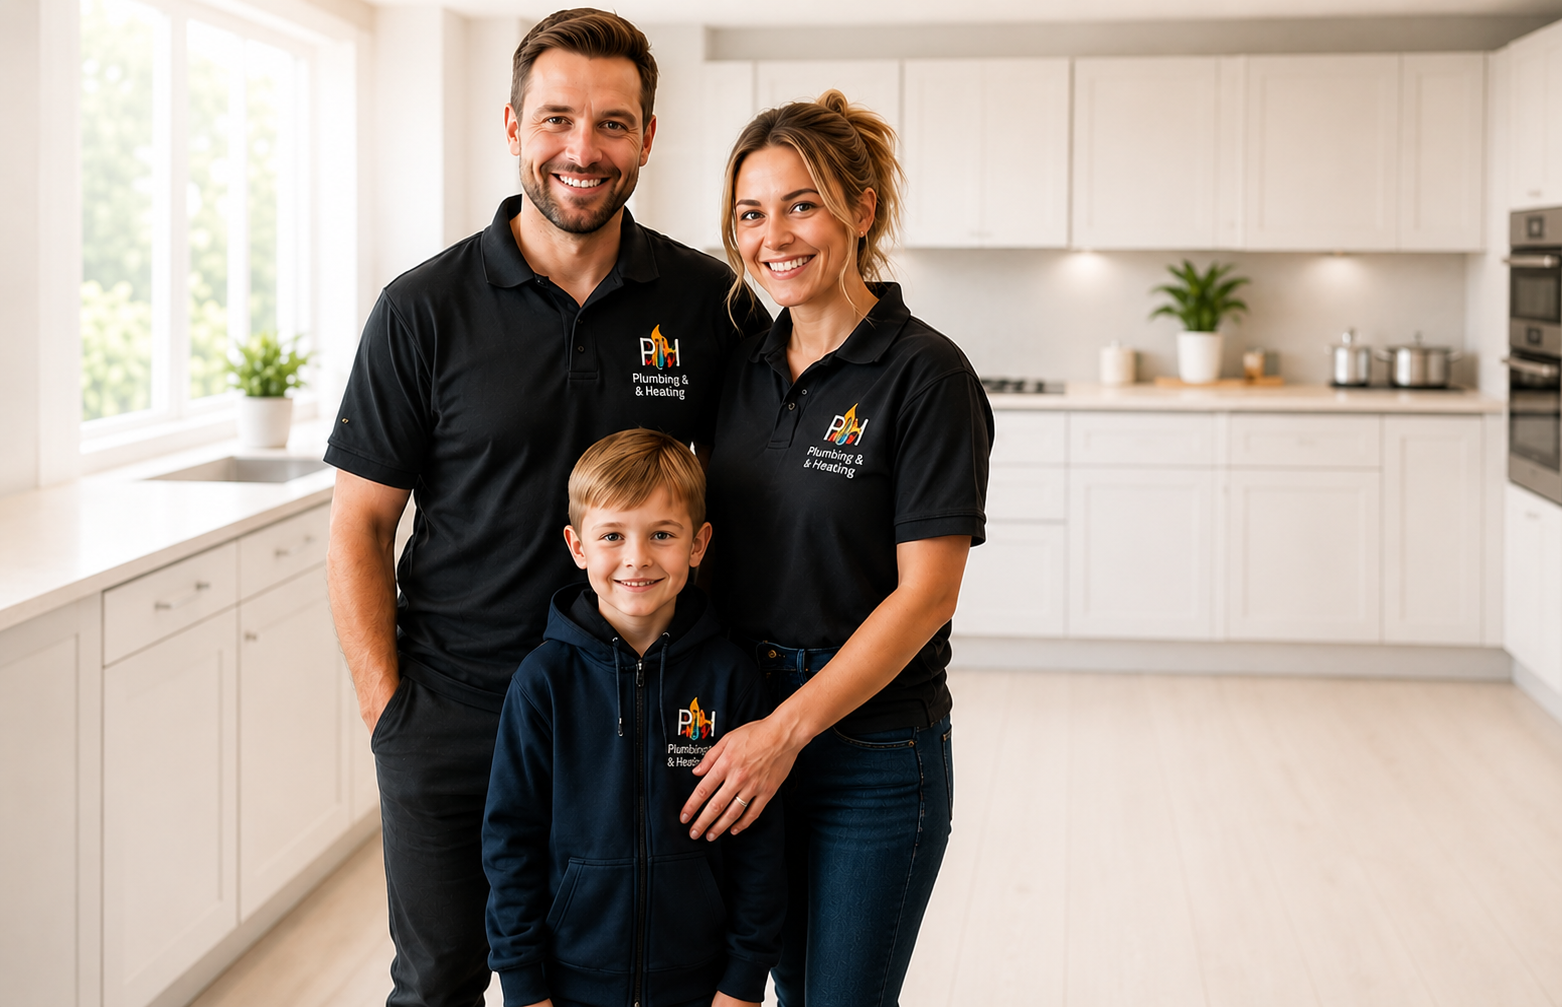
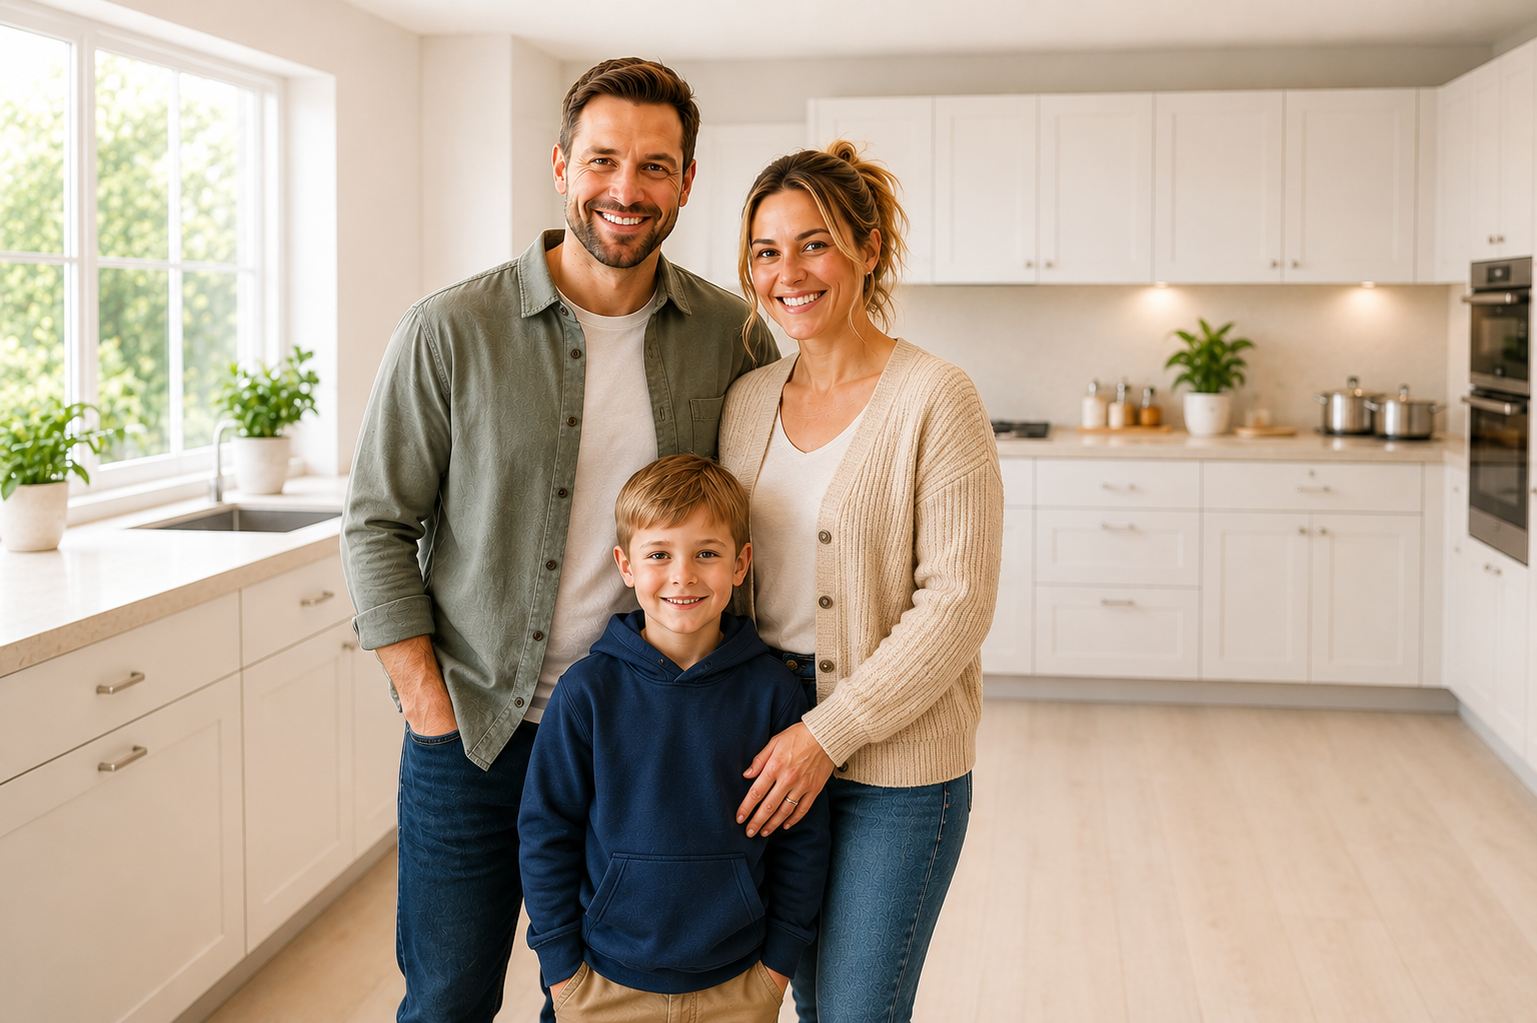
content: remove '1 hour' response time promises from hero quote form and footer contact info

diff --git a/web/app/page.tsx b/web/app/page.tsx
@@ -468,7 +468,7 @@ export default function Home() {
                     </div>
                     <h3 className="text-lg font-extrabold text-slate-800">Quote Request Received!</h3>
                     <p className="text-xs text-slate-500 font-medium leading-relaxed">
-                      Thanks, we will get back to you with a free, no-obligation quote within 1 hour.
+                      Thanks, we will get back to you with a free, no-obligation quote as soon as possible.
                     </p>
                     <button 
                       onClick={() => setHeroStatus('idle')}
@@ -584,13 +584,7 @@ export default function Home() {
                       </button>
                     </form>
 
-                    <div className="flex items-center justify-center gap-1.5 text-[10px] text-slate-400 font-medium pt-0.5">
-                      <svg viewBox="0 0 24 24" fill="none" stroke="currentColor" strokeWidth="2.2" className="h-3 w-3 text-slate-400">
-                        <circle cx="12" cy="12" r="10" />
-                        <polyline points="12 6 12 12 16 14" />
-                      </svg>
-                      <span>We aim to respond within 1 hour</span>
-                    </div>
+
 
                   </div>
                 )}
@@ -1108,7 +1102,6 @@ export default function Home() {
                         <a href={`mailto:${siteConfig.contact.email}`} className="font-extrabold text-[15px] text-slate-850 hover:text-[#ff6b00] transition-colors block leading-tight">
                           {siteConfig.contact.email}
                         </a>
-                        <span className="text-[11px] text-slate-400 font-medium mt-1 block">We aim to reply within 1 hour</span>
                       </div>
                     </div>
 
